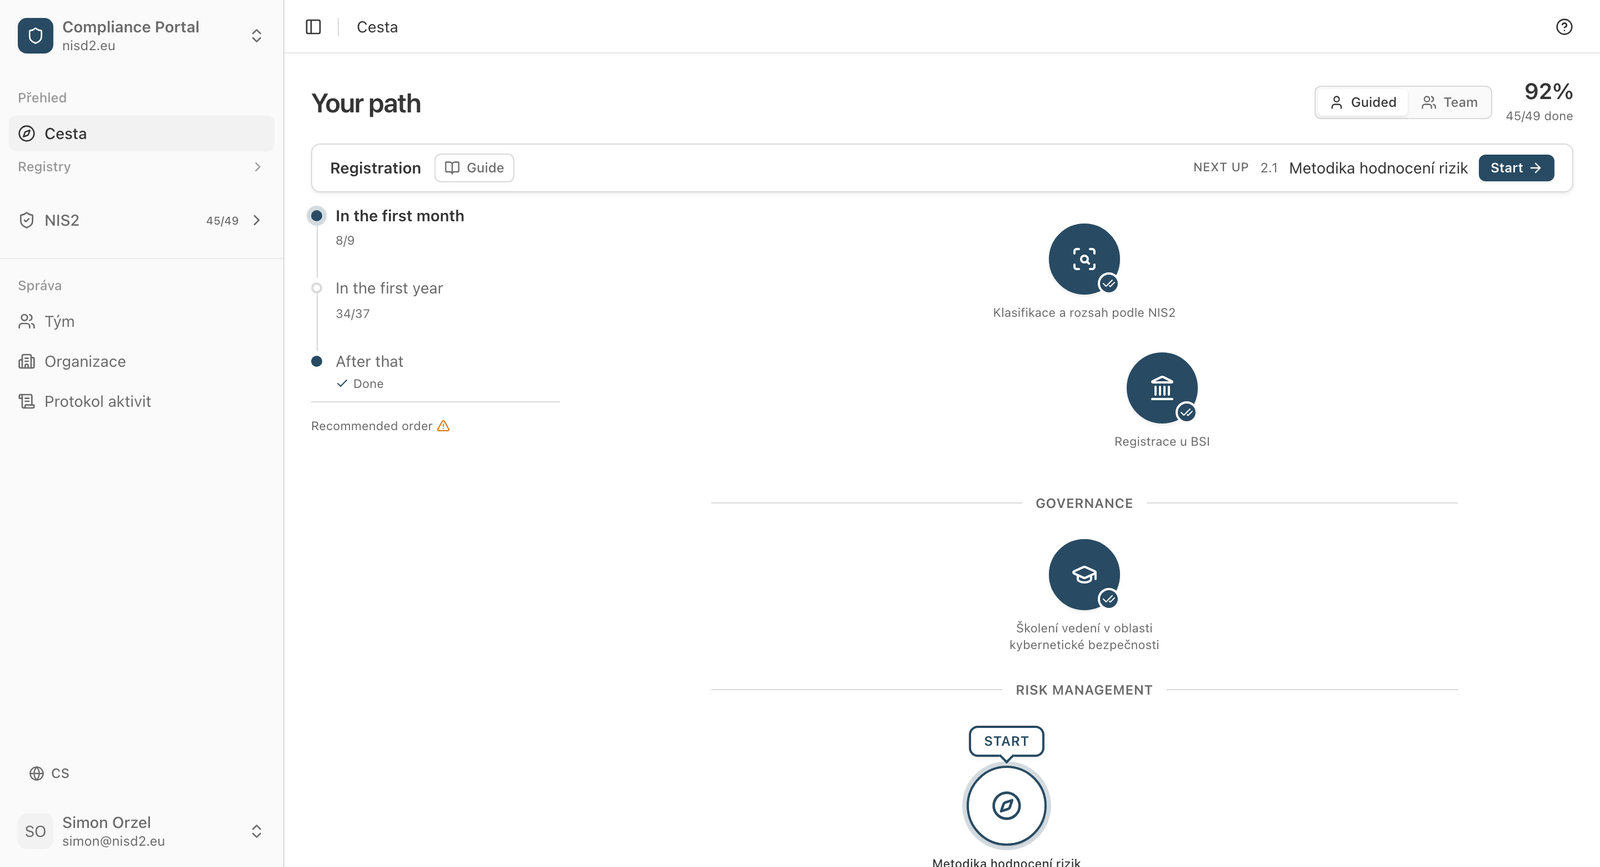
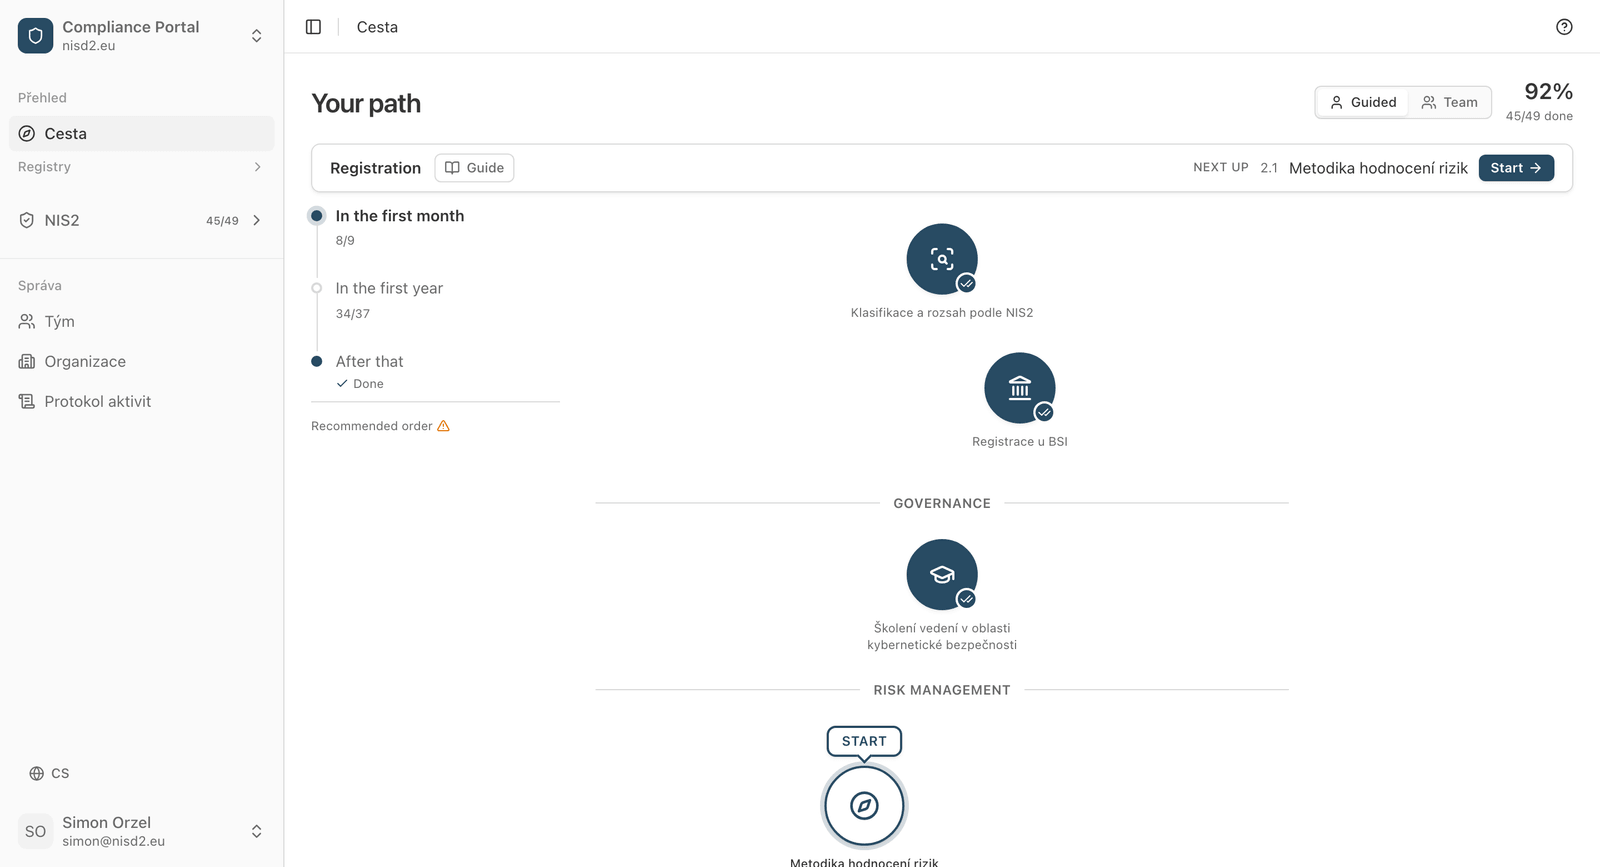
Centre the path on the content row, not on what the rail leaves over
The remaining lean was the row, not the wave. PathTimeline is w-56 shrink-0
inside lg:flex lg:gap-8, and the path column is mx-auto INSIDE that row, so
it centred on the space after the rail: half the rail plus half the gap, about
128px right of the content centre. The dividers sit in the same column, so
they moved with it and the whole block read as a lopsided path rather than as
an off-balance row.

PathTimeline's own docstring already said it "lives in the gutter a centred
path leaves empty". That was the intent. A plain flex row never delivered it.

RAIL_WIDTH is exported and mirrored as an aria-hidden spacer on the far side,
so the two gutters match and mx-auto centres on the whole row. Measured at
1440x780: row centre 848, column centre 848, offset 0px, against 128px before.
Step centres land 848 / 918 / 848 / 778, the period-four wave either side of
the axis.

All ten locales plus the fallback re-shot.

diff --git a/app/[locale]/(portal)/journey/PathTimeline.tsx b/app/[locale]/(portal)/journey/PathTimeline.tsx
@@ -13,6 +13,19 @@ import type { StageProgress } from "./solo-path";
 type Locale = "en" | "de" | "nl";
 
 /**
+ * The rail's footprint in the row, exported because SoloPath mirrors it on the
+ * far side to keep the path centred.
+ *
+ * The docstring below says the rail "lives in the gutter a centred path leaves
+ * empty", and that was the intent, but a plain flex row does not deliver it: a
+ * 14rem rail plus the gap ate the left side and `mx-auto` then centred the path
+ * on what remained, parking it ~128px right of the content centre. The steps
+ * and the section dividers agreed with each other, so it read as the path
+ * itself being lopsided rather than as the row being off-balance.
+ */
+export const RAIL_WIDTH = "w-56";
+
+/**
  * The vertical rail beside the path: the three deadline windows, and which one
  * you are reading.
  *
@@ -48,7 +61,7 @@ export function PathTimeline({
       // Pins below the bar, not level with it: the bar occupies 68px to about
       // 108px, so a rail sharing its offset slides underneath and loses its
       // first lines to it.
-      className="sticky top-[120px] hidden w-56 shrink-0 self-start lg:block"
+      className={cn("sticky top-[120px] hidden shrink-0 self-start lg:block", RAIL_WIDTH)}
     >
       <ol>
         {stages.map((stage, i) => (

diff --git a/app/[locale]/(portal)/journey/SoloPath.tsx b/app/[locale]/(portal)/journey/SoloPath.tsx
@@ -18,7 +18,7 @@ import {
 } from "@/components/ui/hover-card";
 import { Link } from "@/i18n/navigation";
 import { cn } from "@/lib/utils";
-import { PathTimeline } from "./PathTimeline";
+import { PathTimeline, RAIL_WIDTH } from "./PathTimeline";
 import {
   type DotState,
   dotStateOf,
@@ -176,6 +176,14 @@ export function SoloPath({
               : `That is the whole path: ${total} steps.`}
           </p>
         </div>
+
+        {/* Mirrors the rail's footprint so the path centres on the content
+            area instead of on whatever the rail leaves over. Without it the
+            column is pushed right by half the rail plus half the gap, which
+            reads as the path being lopsided rather than the row being
+            off-balance. Empty and hidden from the tree: it is spacing, not
+            content. */}
+        <div aria-hidden="true" className={cn("hidden shrink-0 lg:block", RAIL_WIDTH)} />
       </div>
     </div>
   );
